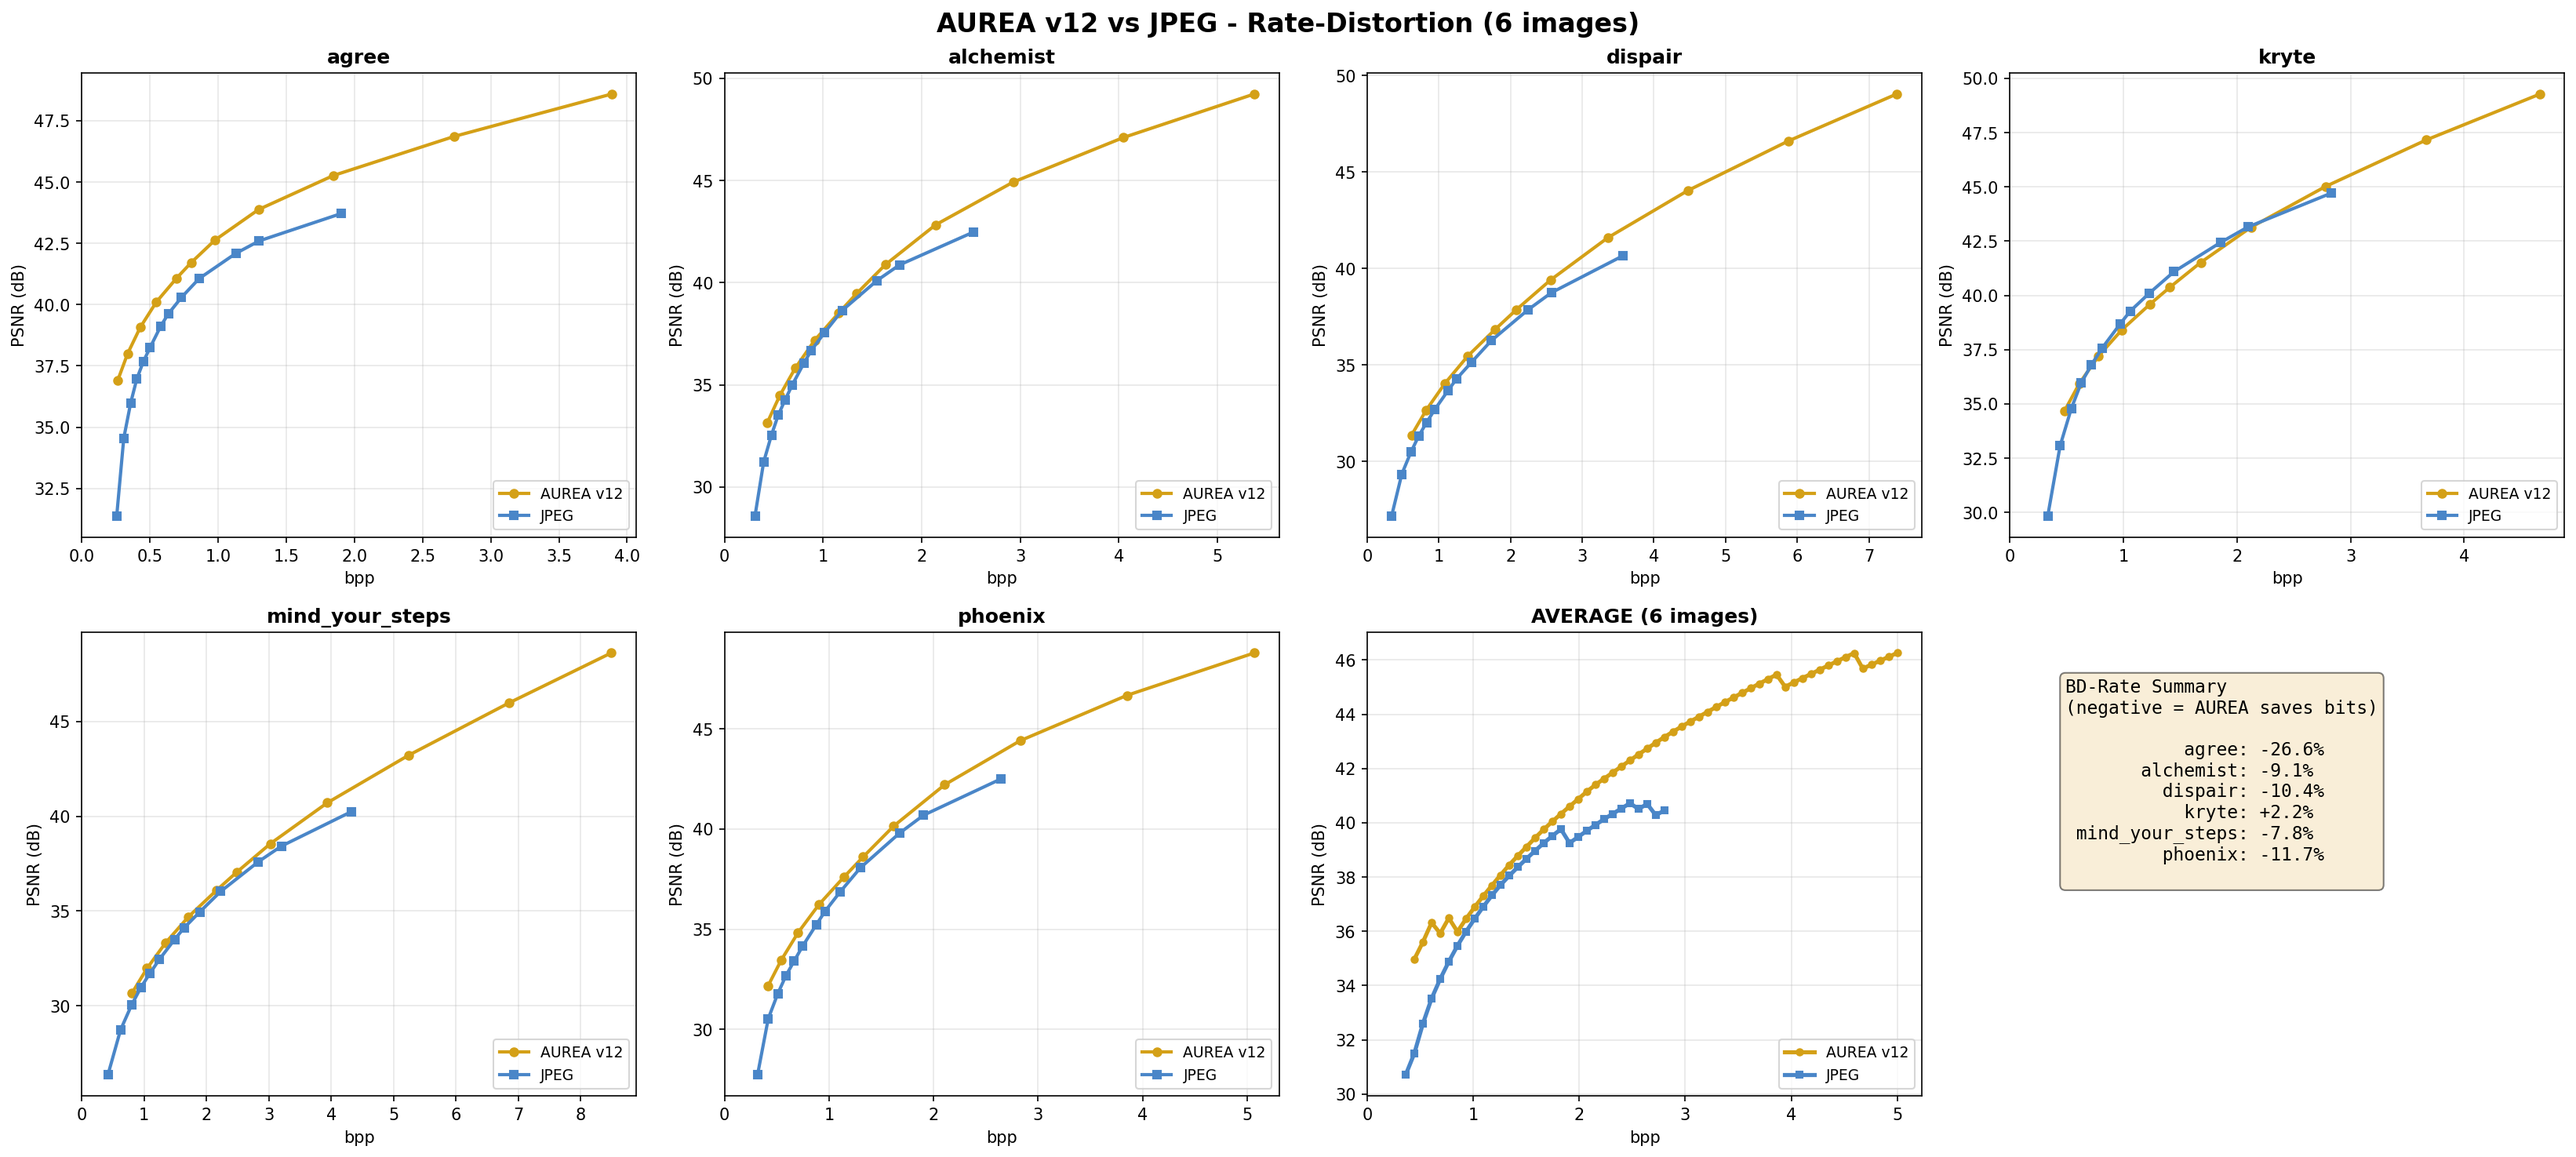
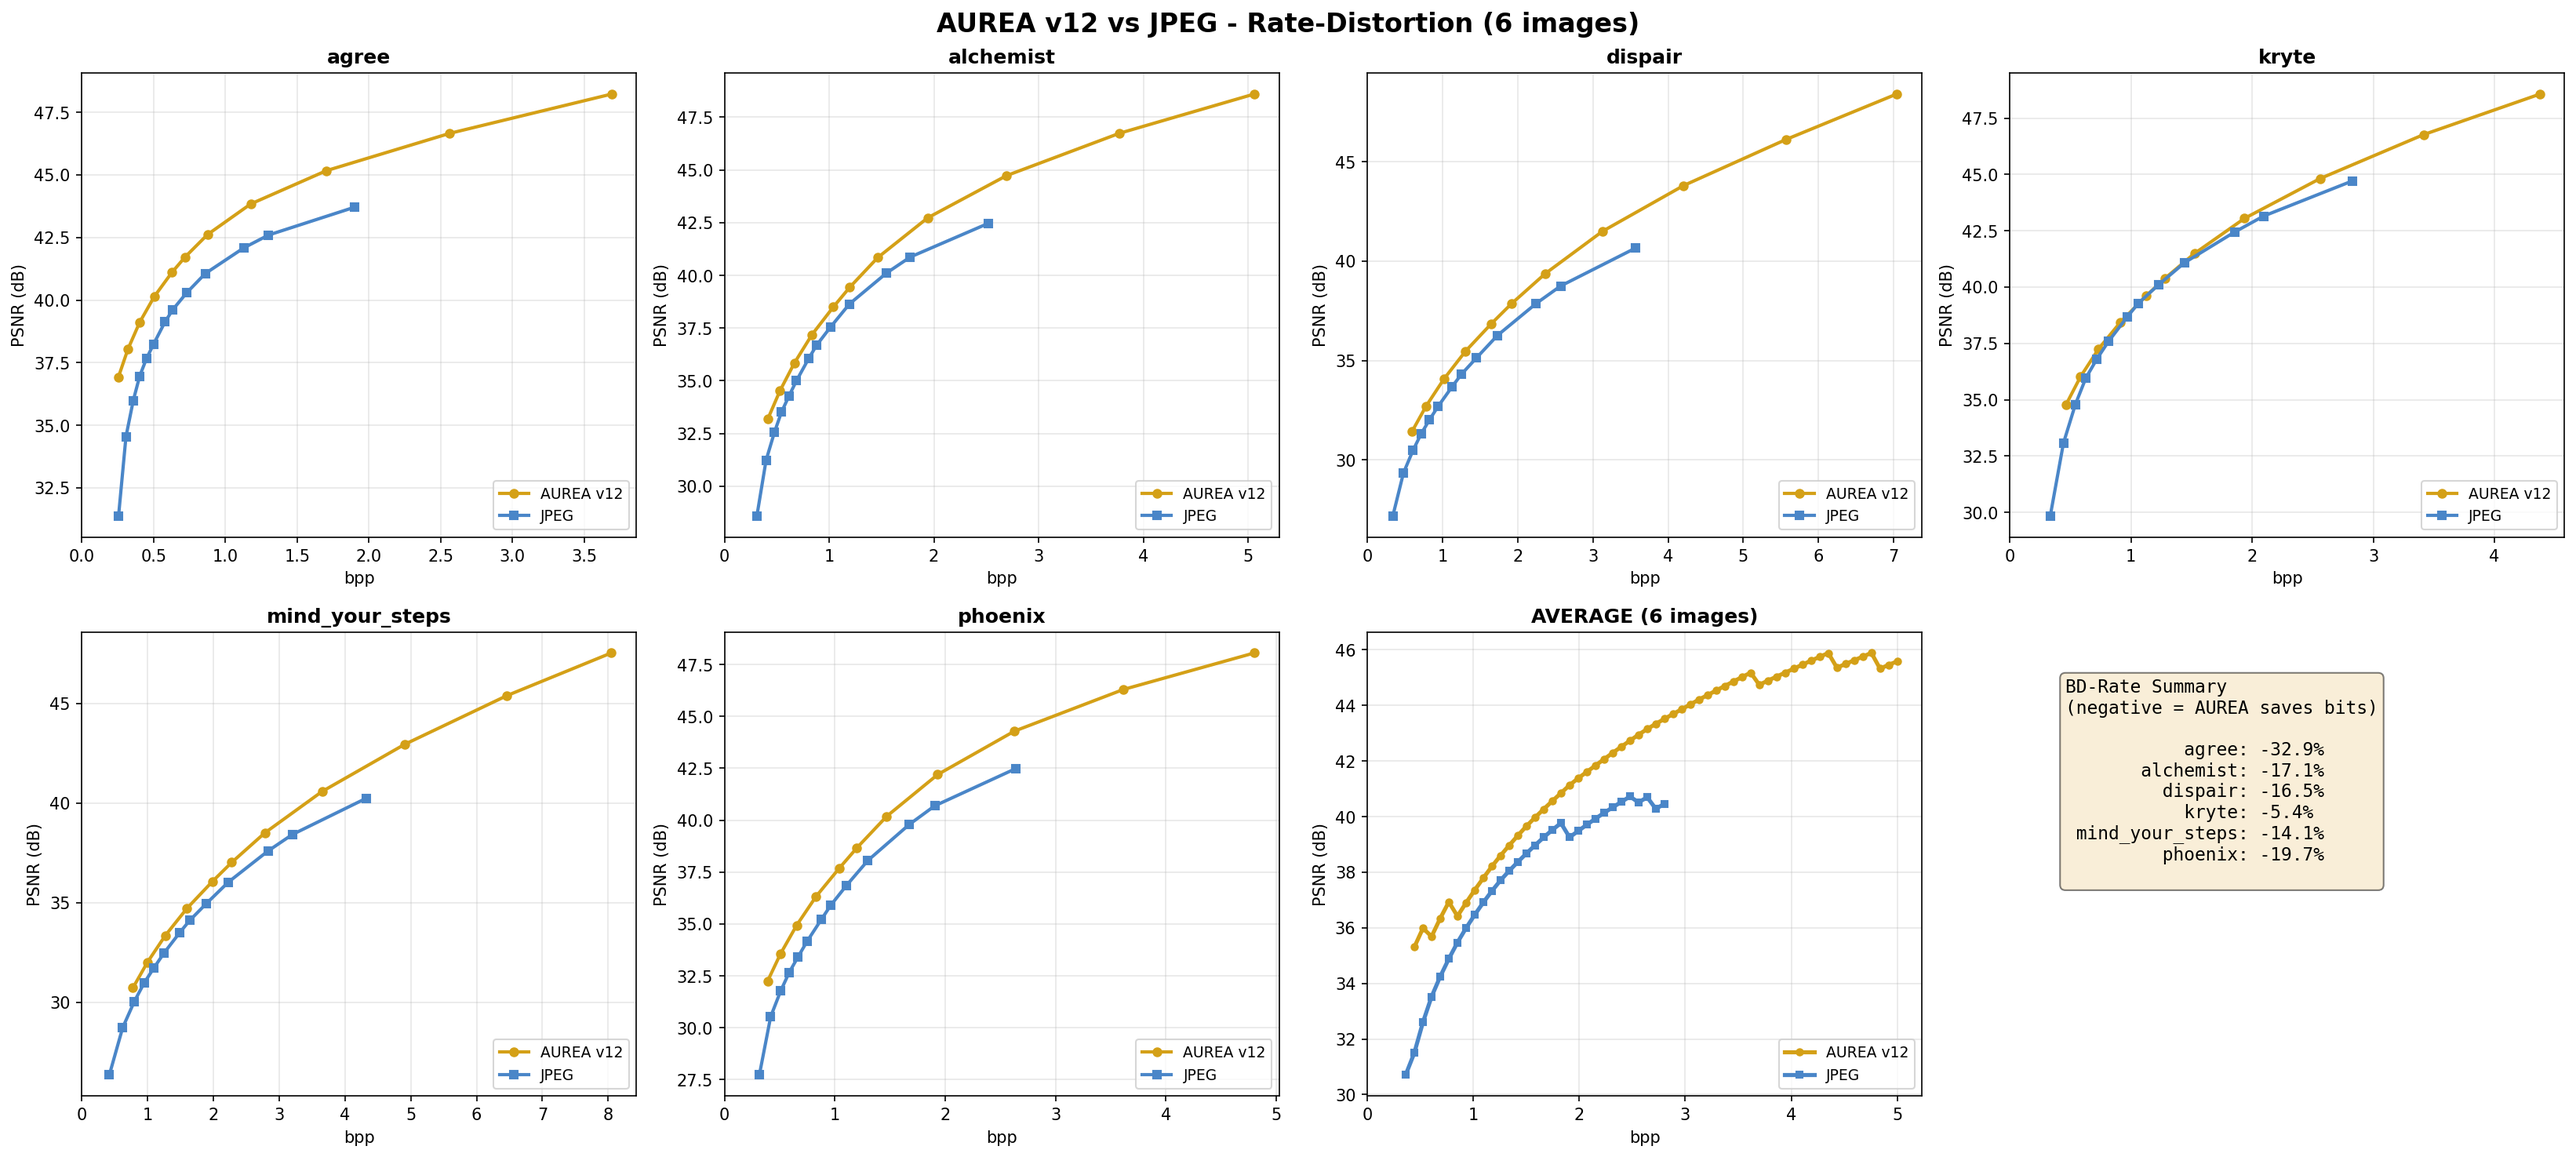
Important optimizations
Performance:
  - DCT cosine LUT + rayon parallelization (LOT, color, Turing, spin)
  - DC/CfL/block-map compressed via rANS v12 Exp-Golomb (-11pt BD-Rate swing)
  - Gas-only deblocking + anti-ring sigma filter (zero bitstream cost)
  - v12 promoted to default CLI pipeline

  Fixes:
  - 1px black border (CAS filter output initialized to zero)
  - Tree canopy mixed-block halo (deblock + sigma filter)
  - Trashland rewired to v12 (was broken todo!() stub)

  Cleanup:
  - All French comments translated to English
  - ADN → DNA terminology
  - README architecture prompt updated
  - Dead module aurea.rs removed

diff --git a/src/trashland/src/pipeline.rs b/src/trashland/src/pipeline.rs
@@ -1,18 +1,87 @@
-/// Trashland pipeline: encode through Aurea, corrupt, decode.
+/// Trashland pipeline: encode through AUREA v12, decode, corrupt.
 ///
-/// Legacy pipeline stubbed out for v10 rewrite.
-/// The corruption happens at two levels:
-/// 1. Wavelet domain (before inverse transform) -- organic codec artifacts
-/// 2. Pixel domain (after reconstruction) -- brutal spatial glitches
+/// The corruption layers simulate satellite transmission failure:
+///   1. Encode the image with AUREA v12 at medium quality (lossy compression)
+///   2. Decode it back (this gives the "clean compressed" baseline)
+///   3. Apply 5 progressive corruption layers based on signal strength
+
+use crate::corrupt::{self, Rng};
 
 /// Run the full trashland pipeline.
 /// Returns the corrupted RGB image as Vec<u8>.
 pub fn trashland_pipeline(
-    _rgb: &[u8],
-    _width: usize,
-    _height: usize,
-    _signal: u8,
-    _seed: u64,
+    rgb: &[u8],
+    width: usize,
+    height: usize,
+    signal: u8,
+    seed: u64,
 ) -> Vec<u8> {
-    todo!("v10 rewrite — trashland pipeline will be rebuilt on AUR2 primitives")
+    let mut rng = Rng::new(seed);
+
+    // Step 1: Encode with AUREA v12 at quality proportional to signal
+    // Higher signal = higher quality base (less codec artifacts to start with)
+    let encode_quality = (signal as u16 * 80 / 100 + 15).min(90) as u8;
+    let params = aurea_core::aurea_encoder::AureaEncoderParams {
+        quality: encode_quality,
+        n_representatives: aurea_core::aurea_encoder::quality_to_n_repr(encode_quality),
+        geometric: false,
+    };
+
+    let encoded = aurea_core::aurea_encoder::encode_aur2_v12(rgb, width, height, &params)
+        .expect("AUREA v12 encode failed");
+
+    // Step 2: Decode back to RGB
+    let decoded = aurea_core::decode_aurea(&encoded.aurea_data)
+        .expect("AUREA decode failed");
+    let mut result = decoded.rgb;
+
+    // Step 3: Compute corruption intensity (0 = pristine, 1 = destroyed)
+    let intensity = 1.0 - (signal as f64 / 100.0);
+
+    // Layer 1: Macroblocking (signal < 80)
+    // Applied on the decoded image as block-mean replacement
+    if signal < 80 {
+        let macro_intensity = ((80 - signal) as f64 / 80.0).min(1.0);
+        // Zero out random 32x32 blocks (replace with block mean)
+        corrupt::freeze_blocks(&mut result, width, height, macro_intensity * 0.3, &mut rng);
+    }
+
+    // Layer 2: Chroma glitch (signal < 60)
+    // Swap color channels in horizontal bands
+    if signal < 60 {
+        let chroma_intensity = ((60 - signal) as f64 / 60.0).min(1.0);
+        // Work on separate planes for chroma swap
+        let mut r_plane: Vec<f64> = (0..width * height).map(|i| result[i * 3] as f64).collect();
+        let mut g_plane: Vec<f64> = (0..width * height).map(|i| result[i * 3 + 1] as f64).collect();
+        let mut b_plane: Vec<f64> = (0..width * height).map(|i| result[i * 3 + 2] as f64).collect();
+
+        corrupt::chroma_band_swap(&mut r_plane, &mut b_plane, height, width, chroma_intensity, &mut rng);
+        corrupt::chroma_horizontal_shift(&mut g_plane, height, width, chroma_intensity * 0.5, &mut rng);
+
+        for i in 0..width * height {
+            result[i * 3]     = r_plane[i].clamp(0.0, 255.0) as u8;
+            result[i * 3 + 1] = g_plane[i].clamp(0.0, 255.0) as u8;
+            result[i * 3 + 2] = b_plane[i].clamp(0.0, 255.0) as u8;
+        }
+    }
+
+    // Layer 3: Line desync (signal < 45)
+    if signal < 45 {
+        let desync_intensity = ((45 - signal) as f64 / 45.0).min(1.0);
+        corrupt::line_desync(&mut result, width, height, desync_intensity, &mut rng);
+    }
+
+    // Layer 4: Partial freeze (signal < 30)
+    if signal < 30 {
+        let freeze_intensity = ((30 - signal) as f64 / 30.0).min(1.0);
+        corrupt::freeze_blocks(&mut result, width, height, freeze_intensity, &mut rng);
+    }
+
+    // Layer 5: Pixel explosion (signal < 15)
+    if signal < 15 {
+        let explosion_intensity = ((15 - signal) as f64 / 15.0).min(1.0);
+        corrupt::pixel_explosion(&mut result, width, height, explosion_intensity, &mut rng);
+    }
+
+    result
 }

diff --git a/src/core/src/aurea_encoder.rs b/src/core/src/aurea_encoder.rs
@@ -1,8 +1,8 @@
 /// Native AUREA v10 encoder: RGB -> .aur file (AUR2 format).
-/// Modified for the A.D.N. architecture (spatial codons).
+/// Modified for the D.N.A. architecture (spatial codons).
 ///
 /// v2 (LOT): Block-based Lapped Orthogonal Transform replaces CDF 9/7 wavelet.
-/// v12: Turing morphogenesis + Psychovisual Pivot (ADN8)
+/// v12: Turing morphogenesis + Psychovisual Pivot (DNA8)
 
 use ndarray::Array2;
 
@@ -26,9 +26,9 @@ pub const FLAG_VARIABLE_BLOCKS: u16  = 0x0004; // Point 2: quadtree 8/16/32
 pub const FLAG_SCENE_ANALYSIS: u16   = 0x0008; // Point 7: scene analysis in encoder
 pub const FLAG_STRUCTURAL: u16       = 0x0010; // Point 4: structural coherence (4D codon)
 pub const FLAG_DPCM_DC: u16          = 0x0020; // Stage 3: golden DPCM for DC
-pub const FLAG_QUALITY_ADAPTIVE: u16 = 0x0040; // ADN4: quality-adaptive lot_factor, qmat_power, spin
-pub const FLAG_LOT_OVERLAP: u16      = 0x0080; // ADN4: 50% LOT overlap at high quality
-pub const FLAG_WEBER_TRNA: u16       = 0x0100; // ADN5: Weber-Fechner luminance tRNA on AC step
+pub const FLAG_QUALITY_ADAPTIVE: u16 = 0x0040; // DNA4: quality-adaptive lot_factor, qmat_power, spin
+pub const FLAG_LOT_OVERLAP: u16      = 0x0080; // DNA4: 50% LOT overlap at high quality
+pub const FLAG_WEBER_TRNA: u16       = 0x0100; // DNA5: Weber-Fechner luminance tRNA on AC step
 pub const FLAG_BAYESIAN_HIERARCHY: u16 = 0x0200; // v12: Bayesian predictive hierarchy
 pub const FLAG_CFL: u16              = 0x0400; // v12: Chroma-from-Luma prediction
 
@@ -65,7 +65,7 @@ pub struct AureaEncoderResult {
 }
 
 // ======================================================================
-// ADN8: Psychovisual Turing Pivot (high-rate vs low-rate)
+// DNA8: Psychovisual Turing Pivot (high-rate vs low-rate)
 // ======================================================================
 /// Computes the Turing modulation factor with a psychovisual pivot.
 /// At low bitrate (quality < 50): gamma > 0, preserves structure (sharp edges), sacrifices smooth areas.
@@ -115,7 +115,7 @@ pub fn auto_detail_step(l_channel: &[f64], height: usize, width: usize, quality:
     let complexity = (mean_energy + 1.0).log2();
     let c_norm = ((complexity - 6.0) / 5.0).clamp(0.0, 1.0);
     let q_frac = (quality as f64 / 100.0).clamp(0.01, 1.0);
-    // Exponential mapping calibrated on 6 HD images (adn5 benchmark).
+    // Exponential mapping calibrated on 6 HD images (DNA5 benchmark).
     // Correction factor 1.3x applied to close the gap with JPEG.
     // Q=0 → ~40, Q=50 → ~7.2, Q=75 → ~3.3, Q=90 → ~2.0, Q=100 → ~1.0
     let base_step = 39.0 * (-3.5 * q_frac).exp() + 0.9;
@@ -1337,7 +1337,7 @@ pub fn encode_unified(
                 n_representatives: quality_to_n_repr(params.quality),
                 geometric: false,
             };
-            encode_aur2(rgb, width, height, &p)
+            encode_aur2_v12(rgb, width, height, &p)
         }
         Pipeline::EdgeEnergy => {
             crate::hex_encoder::encode_edge_energy(rgb, width, height, params.quality)

diff --git a/src/core/src/lib.rs b/src/core/src/lib.rs
@@ -468,7 +468,7 @@ fn decode_edge_energy(file_data: &[u8]) -> Result<DecodedImage, Box<dyn std::err
     })
 }
 
-/// ADN5 hexagonal decoder: full pipeline.
+/// DNA5 hexagonal decoder: full pipeline.
 ///
 /// Pipeline: parse headers -> rANS decode DC/AC/codons -> DPCM inverse ->
 /// IDCT-II -> harmonic background + texture field -> scatter to pixels ->
@@ -900,7 +900,7 @@ fn decode_aur2_hex(file_data: &[u8]) -> Result<DecodedImage, Box<dyn std::error:
     })
 }
 
-/// ADN7 hierarchical hex pyramid decoder: 4-level multi-resolution tessellation.
+/// DNA7 hierarchical hex pyramid decoder: 4-level multi-resolution tessellation.
 ///
 /// Pipeline: parse headers -> for each level (R=13,8,5,3): decode hex positions,
 /// DC/AC/codons -> reconstruct interiors -> ADD to accumulator -> inverse PTF ->
@@ -1478,7 +1478,7 @@ fn decode_aur2_hex_pyramid(file_data: &[u8]) -> Result<DecodedImage, Box<dyn std
     })
 }
 
-/// ADN6 multi-scale hexagonal decoder: fractal granulometry with Fibonacci radii.
+/// DNA6 multi-scale hexagonal decoder: fractal granulometry with Fibonacci radii.
 ///
 /// Pipeline: parse headers -> read radius map -> read per-cell data ->
 /// rANS decode DC/AC/codons -> DPCM inverse -> IDCT-II per cell radius ->
@@ -2795,7 +2795,7 @@ fn decode_aur2_v3(file_data: &[u8]) -> Result<DecodedImage, Box<dyn std::error::
     // The 32×32 blocks on smooth areas already provide naturally smoother DC
     // (larger averaging = less quantization noise per pixel).
 
-    // ADN4: Ternary supercordes sharpening — decoder-side, zero bpp.
+    // DNA4: Ternary supercordes sharpening — decoder-side, zero bpp.
     // Sharpens Segment/Arc blocks, leaves Rien untouched.
     dsp::supercordes_sharpen(
         &mut l_flat, height, width,
@@ -3346,10 +3346,18 @@ fn decode_aur2_v12(file_data: &[u8]) -> Result<DecodedImage, Box<dyn std::error:
     }
 
     let mut l_flat = reconstructed_channels.remove(0);
-    let c1_sub_flat = reconstructed_channels.remove(0);
-    let c2_sub_flat = reconstructed_channels.remove(0);
+    let mut c1_sub_flat = reconstructed_channels.remove(0);
+    let mut c2_sub_flat = reconstructed_channels.remove(0);
 
-    // v12: no deblocking, no supercordes, no CAS sharpening — straight to PTF inverse.
+    // v12: gas-only deblocking (smooth-zone block boundaries only)
+    dsp::deblock_gas_only(&mut l_flat, height, width, LOT_BLOCK_SIZE);
+    dsp::deblock_gas_only(&mut c1_sub_flat, c1_h, c1_w, LOT_BLOCK_SIZE);
+    dsp::deblock_gas_only(&mut c2_sub_flat, c2_h, c2_w, LOT_BLOCK_SIZE);
+
+    // v12: anti-ring sigma filter — cleans mixed-block artifacts near edges.
+    // Sky pixels in blocks straddling tree/sky boundary get pulled toward correct
+    // sky values by excluding dark tree pixels from the local sigma average.
+    dsp::anti_ring_sigma(&mut l_flat, height, width, detail_step);
 
     // PTF inverse on L channel
     {

diff --git a/src/core/src/hex_encoder.rs b/src/core/src/hex_encoder.rs
@@ -1,4 +1,4 @@
-//! Perimeter DCT-II encoder for ADN5 hexagonal codec.
+//! Perimeter DCT-II encoder for DNA5 hexagonal codec.
 //!
 //! Samples the perimeter of each hexagon (~28 pixels), transforms it with
 //! a DCT-II to get ~N/2 real coefficients, and classifies each vertex as
@@ -75,7 +75,7 @@ const FIB_AMPS: [u8; 8] = [0, 1, 2, 3, 5, 8, 13, 21];
 // VertexCodon
 // ---------------------------------------------------------------------------
 
-/// Classification of a hex vertex for ADN5 encoding.
+/// Classification of a hex vertex for DNA5 encoding.
 ///
 /// - `Rien`    (0): flat region, no significant gradient
 /// - `Segment` (1): dominant edge in one direction

diff --git a/src/core/src/hex.rs b/src/core/src/hex.rs
@@ -1,4 +1,4 @@
-//! Hexagonal grid geometry for ADN5 honeycomb tessellation.
+//! Hexagonal grid geometry for DNA5 honeycomb tessellation.
 //!
 //! Flat-top hexagons with radius R=5 (Fibonacci number), providing
 //! the coordinate system, pixel-to-hex mapping, and precomputed hex shape.
@@ -554,7 +554,7 @@ impl MultiScaleHexGrid {
 }
 
 // ---------------------------------------------------------------------------
-// Hexagonal subdivision (fracturing) for ADN5
+// Hexagonal subdivision (fracturing) for DNA5
 // ---------------------------------------------------------------------------
 
 /// Subdivision code for a hexagon (2 bits).

diff --git a/src/core/src/dsp.rs b/src/core/src/dsp.rs
@@ -302,7 +302,7 @@ pub fn directional_sharpen(y: &mut [f64], h: usize, w: usize, strength: f64) {
 }
 
 // ======================================================================
-// Ternary supercordes sharpening (ADN4 decoder-side)
+// Ternary supercordes sharpening (DNA4 decoder-side)
 // ======================================================================
 
 /// Ternary supercordes classification per block.

diff --git a/src/core/src/bitstream.rs b/src/core/src/bitstream.rs
@@ -675,7 +675,7 @@ pub fn parse_aur2_header(data: &[u8]) -> io::Result<(Aur2Header, usize)> {
 }
 
 // ======================================================================
-// AUR2 v5: ADN5 hexagonal header extension
+// AUR2 v5: DNA5 hexagonal header extension
 // ======================================================================
 
 /// AUR2 v5 hexagonal header (6 bytes, appended after base Aur2Header).

diff --git a/src/core/src/postprocess.rs b/src/core/src/postprocess.rs
@@ -69,7 +69,8 @@ pub fn apply_cas_sharpening(
     height: usize,
     sharpness: f32,
 ) -> Vec<f32> {
-    let mut output = vec![0.0; width * height];
+    // Initialize output as a copy of input — border pixels pass through unchanged.
+    let mut output = input.to_vec();
 
     // Standard CAS weight typically varies around -0.125
     let sharp_weight = -0.125 * sharpness.clamp(0.0, 1.0);

diff --git a/src/core/src/lot.rs b/src/core/src/lot.rs
@@ -626,7 +626,7 @@ pub fn lot_stride(block_size: usize, use_overlap: bool) -> usize {
 }
 
 // ======================================================================
-// Weber-Fechner luminance tRNA (ADN5)
+// Weber-Fechner luminance tRNA (DNA5)
 // ======================================================================
 
 /// Luminance-adaptive step factor based on Weber-Fechner law.

diff --git a/src/core/src/calibration.rs b/src/core/src/calibration.rs
@@ -100,7 +100,7 @@ pub const VARIABLE_BLOCK_MERGE_FACTOR: f64 = 0.25;
 pub const VARIABLE_BLOCK_MIN_PCT: f64 = 10.0;
 
 // ======================================================================
-// Quality-adaptive parameters (ADN4)
+// Quality-adaptive parameters (DNA4)
 // ======================================================================
 
 /// LOT global AC step multiplier.

diff --git a/src/core/src/polymerase.rs b/src/core/src/polymerase.rs
@@ -1,4 +1,4 @@
-/// A.D.N. module — Geometric sequencing by polymerase.
+/// D.N.A. module — Geometric sequencing by polymerase.
 /// Replaces PCA/Taubin primitive detection with a codon-guided traversal.
 
 use ndarray::Array2;
